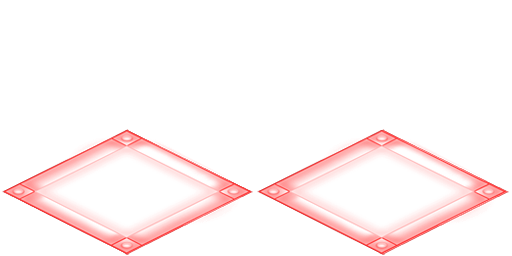
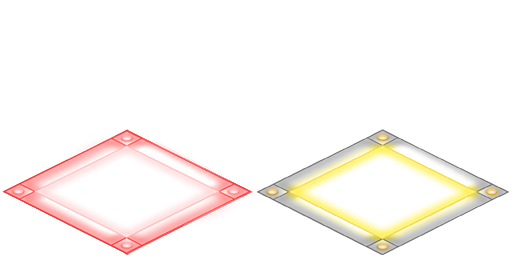
more fixes to tutorial maps updated Wish List added support for disabling of the end square something else was fixed

Changed region(s): [[0.5, 0.5, 1.0, 1.0]]

diff --git a/seeautz/source/glutFramework/glutFramework/gameBoard.cpp b/seeautz/source/glutFramework/glutFramework/gameBoard.cpp
@@ -1207,7 +1207,7 @@ void gameBoard::processRobot()
 bool gameBoard::robotAtEndSquare()
 {
 	// find the end square
-	if (mapList[robotX][robotY]->getType() == TEnd)
+	if ((mapList[robotX][robotY]->getType() == TEnd) && (mapList[robotX][robotY]->getIsActive()))
 		return true;
 	else
 		return false;
@@ -2199,8 +2199,10 @@ bool gameBoard::processSub(int whichSub)
 				moveForwardFiring = this->RCmoveRobotForward();	// false if over, true if activating
 				GameVars->commandsProcessed++;
 				if(moveForwardFiring)
+				{
 					GameVars->commandsProcessed--;
 					return true;
+				}				
 				break;
 
 			case SUBR1:

diff --git a/seeautz/source/glutFramework/glutFramework/selectProfileState.cpp b/seeautz/source/glutFramework/glutFramework/selectProfileState.cpp
@@ -101,7 +101,10 @@ bool selectProfileState::Draw()
 	// picture of level
 	GameVars->levelArt[highestLevel]->mX = 1024/2 - GameVars->levelArt[highestLevel]->dX/2;
 	GameVars->levelArt[highestLevel]->mY = offsetY + offsetAmt*textspacing;
+	int tempheight = GameVars->levelArt[highestLevel]->dY;
+	GameVars->levelArt[highestLevel]->dY *= 0.75;
 	GameVars->levelArt[highestLevel]->drawImage();
+	GameVars->levelArt[highestLevel]->dY = tempheight;
 
 
 	glColor3ub(0, 0, 0);

diff --git a/seeautz/source/glutFramework/glutFramework/oglGameVars.cpp b/seeautz/source/glutFramework/glutFramework/oglGameVars.cpp
@@ -640,7 +640,7 @@ void oglGameVars::setCurrentLogicBank(bool moveForwardAvail, bool moveForwardUnt
 	
 	currentLogicBank = new vector<logicBlock*>;
 
-	for(int i = 0; i < allLogicBlocks.size(); i++)
+	for(int i = 0; i < (int)allLogicBlocks.size(); i++)
 	{
 		allLogicBlocks[i]->isUsable = true;
 		allLogicBlocks[i]->isCurrentlyUsable = true;
